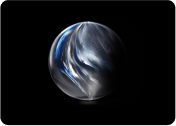
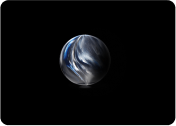
fixed image raitios

diff --git a/src/index.html b/src/index.html
@@ -148,10 +148,10 @@
                         <button class="unbutton preview__back hoverable"><svg width="100px" height="18px" viewBox="0 0 50 9"><path vector-effect="non-scaling-stroke" d="m0 4.5 5-3m-5 3 5 3m45-3h-77"></path></svg></button>
                         <div class="footer-oh-wrap">
                             <span class="oh">
-                                <a href="#" class="oh__inner preview__link hoverable">GitHub<svg xmlns="http://www.w3.org/2000/svg" width="20" height="20" viewBox="0 0 24 24" fill="none" stroke-width="1.5" stroke-linecap="square" stroke-linejoin="arcs"><path d="M7 17l9.2-9.2M17 17V7H7"/></svg></a>
+                                <a href="https://github.com/bautista73/ElmersExpress" target="_blank" class="oh__inner preview__link hoverable">GitHub<svg xmlns="http://www.w3.org/2000/svg" width="20" height="20" viewBox="0 0 24 24" fill="none" stroke-width="1.5" stroke-linecap="square" stroke-linejoin="arcs"><path d="M7 17l9.2-9.2M17 17V7H7"/></svg></a>
                             </span>
                             <span class="oh">
-                                <a href="#" class="oh__inner preview__link hoverable">Live Site<svg xmlns="http://www.w3.org/2000/svg" width="20" height="20" viewBox="0 0 24 24" fill="none" stroke-width="1.5" stroke-linecap="square" stroke-linejoin="arcs"><path d="M7 17l9.2-9.2M17 17V7H7"/></svg></a>
+                                <a href="http://elmersexpress-demo.netlify.app" target="_blank" class="oh__inner preview__link hoverable">Live Demo<svg xmlns="http://www.w3.org/2000/svg" width="20" height="20" viewBox="0 0 24 24" fill="none" stroke-width="1.5" stroke-linecap="square" stroke-linejoin="arcs"><path d="M7 17l9.2-9.2M17 17V7H7"/></svg></a>
                             </span>
                         </div>
                     </div>
@@ -173,7 +173,7 @@
                                 </span>
                             </div>
                             <div class="preview__column">
-                                <h3 class="preview__column-title oh"><span class="oh__inner">Description</span></h3>
+                                <span class="preview__column-title oh"><span class="oh__inner">Description</span></span>
                                 <span class="oh__inner inner__sub">With NexusMD, my aim was to create a user-friendly and feature-rich solution that streamlines administrative tasks for private practices, ultimately providing an efficient and effective platform for managing patient workflows. The minimalist dashboard design boasts a simple interface for easy navigation and workflow. Currently, we're working on further developing the project to improve scalability and ensure seamless performance as the user base grows.</span>
                             </div>
                             <div class="preview__column">
@@ -356,14 +356,14 @@
                             <div class="info__contact__wrap__email">
                                 <h6 class="info__contact__wrap__email__sub">Seeking new challenges<br> let's discuss potential opportunities.</h6>
                             </div>
-                            <button class="info__contact__wrap__button hoverable" href="mailto:hello@brandonbautista.dev">hello@brandon.bautista.dev</button>
+                            <a class="info__contact__wrap__button hoverable" href="mailto:hello@brandonbautista.dev">hello@brandon.bautista.dev</a>
                             <div class="info__contact__wrap__socials">
-                                <div class="button-wrap"><button class="hoverable" href="">LinkedIn<svg xmlns="http://www.w3.org/2000/svg" width="18" height="18" viewBox="0 0 20 20" fill="none" stroke="#ffffff" stroke-width="1.5" stroke-linecap="square" stroke-linejoin="arcs"><path d="M7 17l9.2-9.2M17 17V7H7"/></svg></button></div>
-                                <div class="button-wrap"><button class="hoverable" href="">GitHub<svg xmlns="http://www.w3.org/2000/svg" width="18" height="18" viewBox="0 0 20 20" fill="none" stroke="#ffffff" stroke-width="1.5" stroke-linecap="square" stroke-linejoin="arcs"><path d="M7 17l9.2-9.2M17 17V7H7"/></svg></button></div>
-                                <div class="button-wrap"><button class="hoverable" href="">Twitter<svg xmlns="http://www.w3.org/2000/svg" width="18" height="18" viewBox="0 0 20 20" fill="none" stroke="#ffffff" stroke-width="1.5" stroke-linecap="square" stroke-linejoin="arcs"><path d="M7 17l9.2-9.2M17 17V7H7"/></svg></button></div>
+                                <div class="button-wrap"><a class="hoverable" href="https://www.linkedin.com/in/b-bautista/" target="_blank">LinkedIn<svg xmlns="http://www.w3.org/2000/svg" width="18" height="18" viewBox="0 0 20 20" fill="none" stroke="#ffffff" stroke-width="1.5" stroke-linecap="square" stroke-linejoin="arcs"><path d="M7 17l9.2-9.2M17 17V7H7"/></svg></a></div>
+                                <div class="button-wrap"><a class="hoverable" href="https://github.com/bautista73" target="_blank">GitHub<svg xmlns="http://www.w3.org/2000/svg" width="18" height="18" viewBox="0 0 20 20" fill="none" stroke="#ffffff" stroke-width="1.5" stroke-linecap="square" stroke-linejoin="arcs"><path d="M7 17l9.2-9.2M17 17V7H7"/></svg></a></div>
+                                <div class="button-wrap"><a class="hoverable" href="https://www.instagram.com/_bbautista_/" target="_blank">Instagram<svg xmlns="http://www.w3.org/2000/svg" width="18" height="18" viewBox="0 0 20 20" fill="none" stroke="#ffffff" stroke-width="1.5" stroke-linecap="square" stroke-linejoin="arcs"><path d="M7 17l9.2-9.2M17 17V7H7"/></svg></a></div>
                             </div>
                             <div class="info__contact__wrap__socials">
-                                <div class="button-wrap"><button class="hoverable" href="">View Resume<svg xmlns="http://www.w3.org/2000/svg" width="18" height="18" viewBox="0 0 20 20" fill="none" stroke="#ffffff" stroke-width="1.5" stroke-linecap="square" stroke-linejoin="arcs"><path d="M7 17l9.2-9.2M17 17V7H7"/></svg></button></div>
+                                <div class="button-wrap"><a class="hoverable" href="">View Resume<svg xmlns="http://www.w3.org/2000/svg" width="18" height="18" viewBox="0 0 20 20" fill="none" stroke="#ffffff" stroke-width="1.5" stroke-linecap="square" stroke-linejoin="arcs"><path d="M7 17l9.2-9.2M17 17V7H7"/></svg></a></div>
                             </div> 
                         </div>
                     </div>                  

diff --git a/src/assets/transition.css b/src/assets/transition.css
@@ -157,7 +157,7 @@
 	position: absolute;
 	top: 0;
 	left: 0;
-	width: 175px;
+	width: 176px;
 	height: 100%;
 	overflow: hidden;
 	transform: translateX(-100%);
@@ -171,9 +171,12 @@
 
 .item__image {
 	width: 100%;
-	height: 100%;
-	object-fit: cover;
-	height: auto;
+	position: relative;
+	top: 50%;
+	transform: translateY(-50%);
+	/* height: 100%; */
+	/* object-fit: cover; */
+	/* height: auto; */
 	visibility: hidden;
 }
 
@@ -217,7 +220,7 @@
 }
 
 .item__black {
-	color: black !important;
+	color: black;
 }
 
 .item__svg {
@@ -277,8 +280,7 @@
 	height: auto;
 }
 
-.preview {
-	opacity: 0;
+.preview {	opacity: 0;
 	pointer-events: none;
 	position: absolute;
 	top: 0;
@@ -328,10 +330,10 @@
 
 .preview__img {
 	position: relative;
-	width: 100%;
-	height: 100%;
-    /* min-height: 200px;
-	max-height: 700px; */
+	/* width: 100%;
+	height: 100%; */
+    min-height: 200px;
+	max-height: 55vh;
     overflow: hidden;
     transform: translateY(-101%);
     pointer-events: none;
@@ -370,6 +372,7 @@
 	align-items: center;
 	justify-content: space-between;
 	height: 20vh;
+	margin-top: 1rem;
 }
 
 @media screen and (max-width: 1080px) {
@@ -383,7 +386,7 @@
 	height: 100%;
 	display: flex;
 	justify-content: space-between;
-	padding: 10px;
+	/* padding: 10px; */
 }
 
 @media screen and (max-width: 1080px) {
@@ -430,7 +433,8 @@
 	display: flex;
 	justify-content: space-between;
 }
-@media screen and (max-width: 880px) {
+
+@media screen and (max-width: 1280px){
 	.preview__footer-wrap {
 		padding-top: 1rem;
 	}

diff --git a/src/assets/main.scss b/src/assets/main.scss
@@ -401,6 +401,7 @@ header {
                         border: 1px solid white;
                         border-radius: 18px;
                         padding: 8px 10px;
+                        text-decoration: none;
                         // pointer-events: auto;
                         // cursor: pointer; 
                         display: flex;
@@ -419,10 +420,11 @@ header {
                         display: flex;
                         gap: 1rem;
 
-                        button {
+                        a {
                             background: none;
                             color: white;
                             font-size: 15px;
+                            text-decoration: none;
                             // pointer-events: auto;
                             // cursor: pointer;
                             border: none;

diff --git a/src/js/item.js b/src/js/item.js
@@ -21,7 +21,7 @@ import { gsap } from 'gsap';
 		this.DOM.el = DOM_el;
         this.preview = previewEl;
         this.DOM.image = this.DOM.el.querySelector('.item__img');
-        this.DOM.imageInner = this.DOM.el.querySelector('.item__img-inner');
+        this.DOM.imageInner = this.DOM.el.querySelector('.item_git _img-inner');
         this.DOM.link = this.DOM.el.querySelector('.item__link');
         this.DOM.meta = this.DOM.el.querySelector('.item__meta');
         this.DOM.title = this.DOM.el.querySelector('.item__title');
